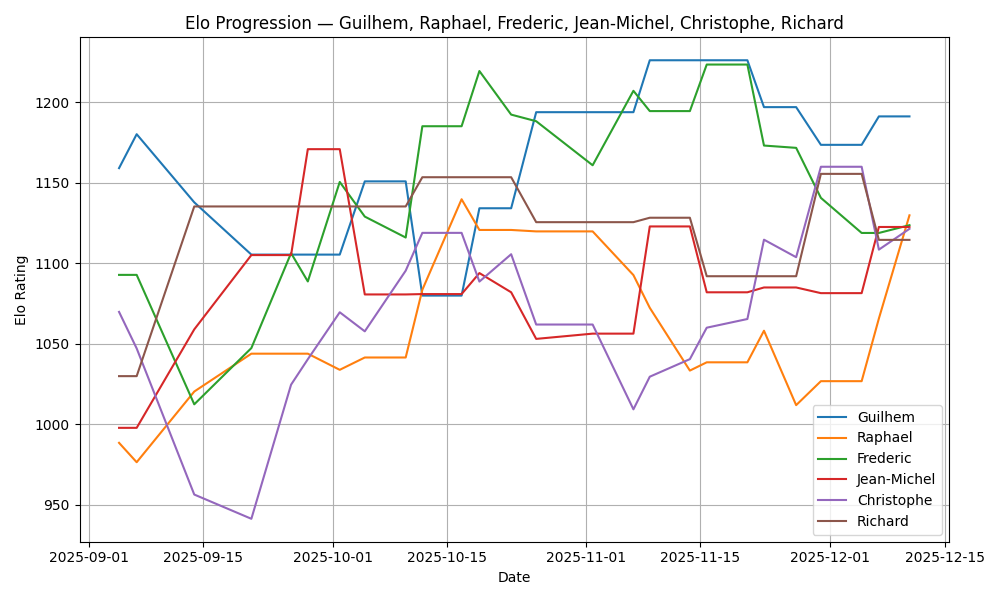
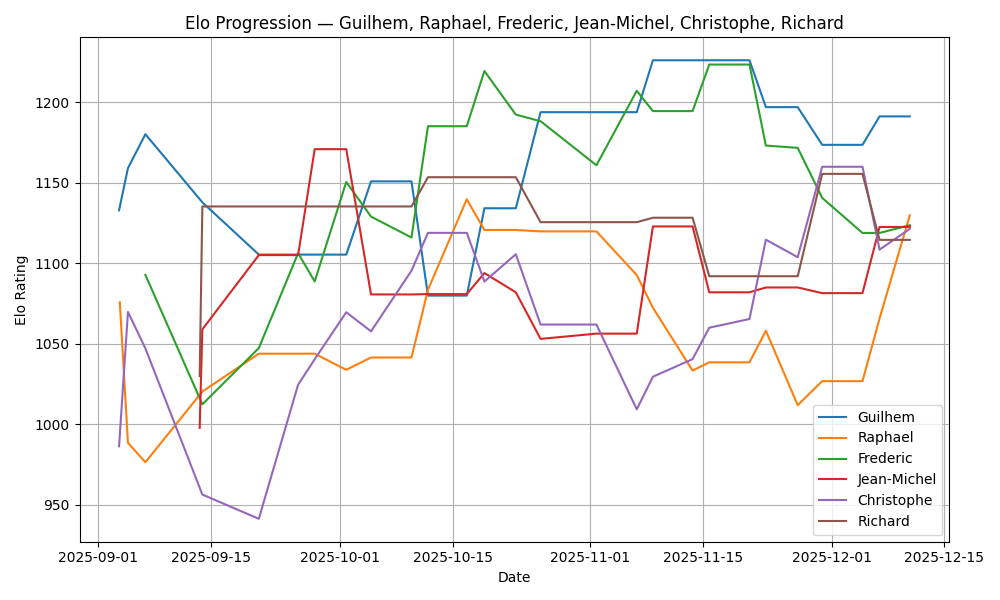
courbes debutent au meme moment que le joueur entre dans le tournoi

diff --git a/visualizer.py b/visualizer.py
@@ -42,8 +42,13 @@ class Visualizer:
                 # Remove duplicates of dates
                 dates_no_dup = []
                 elo_values_no_dup = []
+                still_starting_elo = True
                 for i in range(len(dates)):
-                    if i == len(dates) - 1 or (dates[i+1] - dates[i]).days >= 1:
+                    if still_starting_elo and (i == len(dates) - 1 or elo_values[i+1] != elo_values[i]):
+                        still_starting_elo = False
+                        dates_no_dup.append(dates[i])
+                        elo_values_no_dup.append(elo_values[i])
+                    if not(still_starting_elo) and (i == len(dates) - 1 or (dates[i+1] - dates[i]).days >= 1):
                         dates_no_dup.append(dates[i])
                         elo_values_no_dup.append(elo_values[i])
                         
